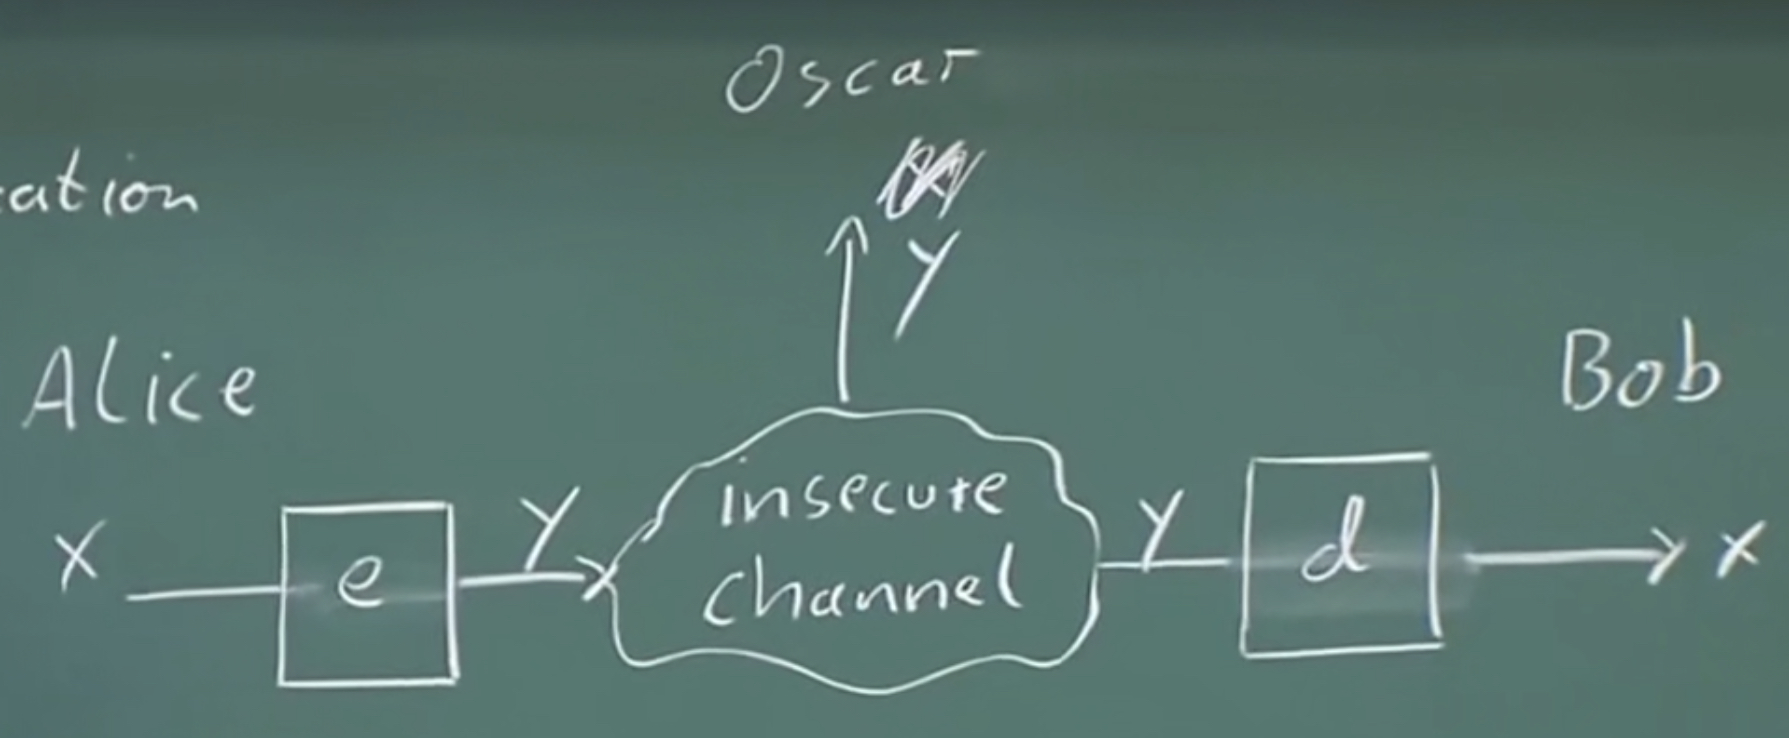
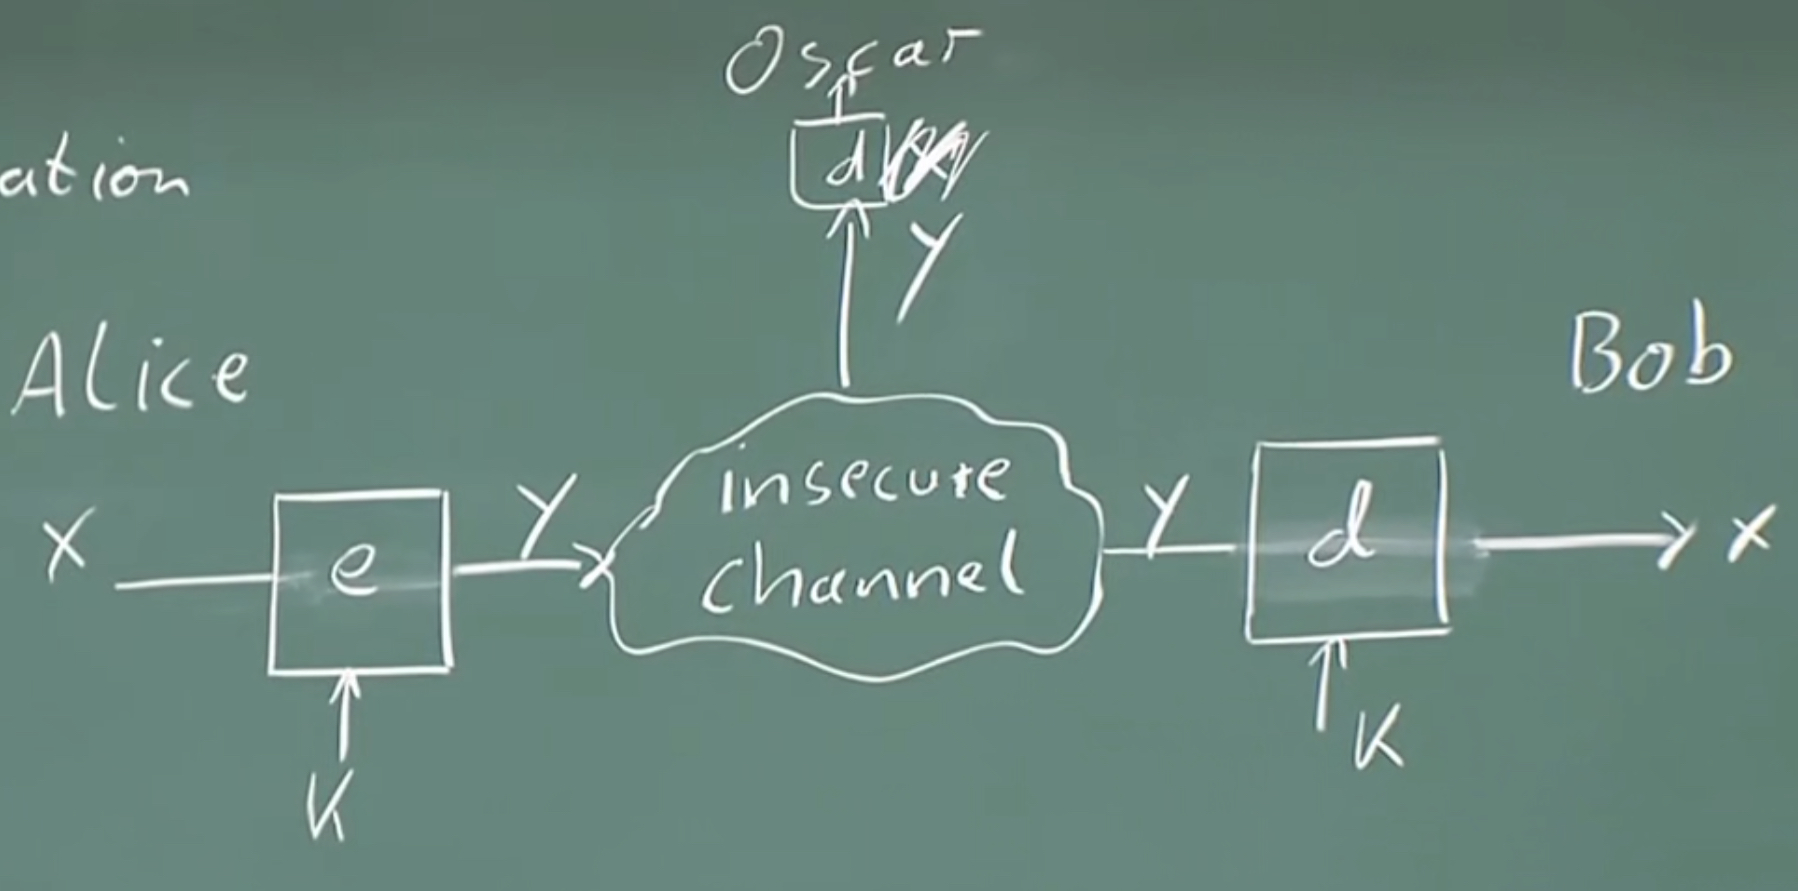
change example

diff --git a/Cryptography-by-Christof-Paar/lecture1.md b/Cryptography-by-Christof-Paar/lecture1.md
@@ -36,20 +36,26 @@
 
 ## 2. Set-up for symmetric cryptography  
 (simple) problem: Communication over insecure channel  
+channel examples:    
+- internet  
+- airwaves GSM, wifi, ...  
+
 ```
 party A                                    party B  
 Alice                  Oscar                 Bob  
                          y  
             y            ↑         y	
   x	---- e --->  insecure channel --- d --->  x  
+         ↑                            ↑
+        key                          key
 ```
 <img src="figures/lecture1/fig1.jpg"
      alt="example1"
-     style="" />
+     style="" />  
 
-channel examples:    
-- internet  
-- airwaves GSM, wifi, ...  
+### In practice: Never use an untested crypto algorithm!  
+
+
 
 
 
